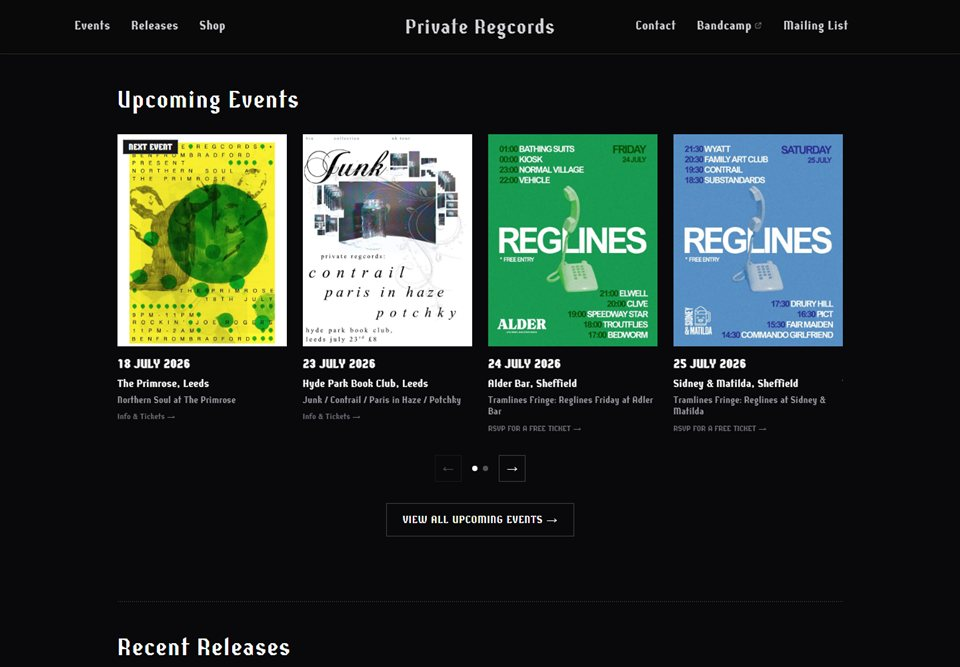
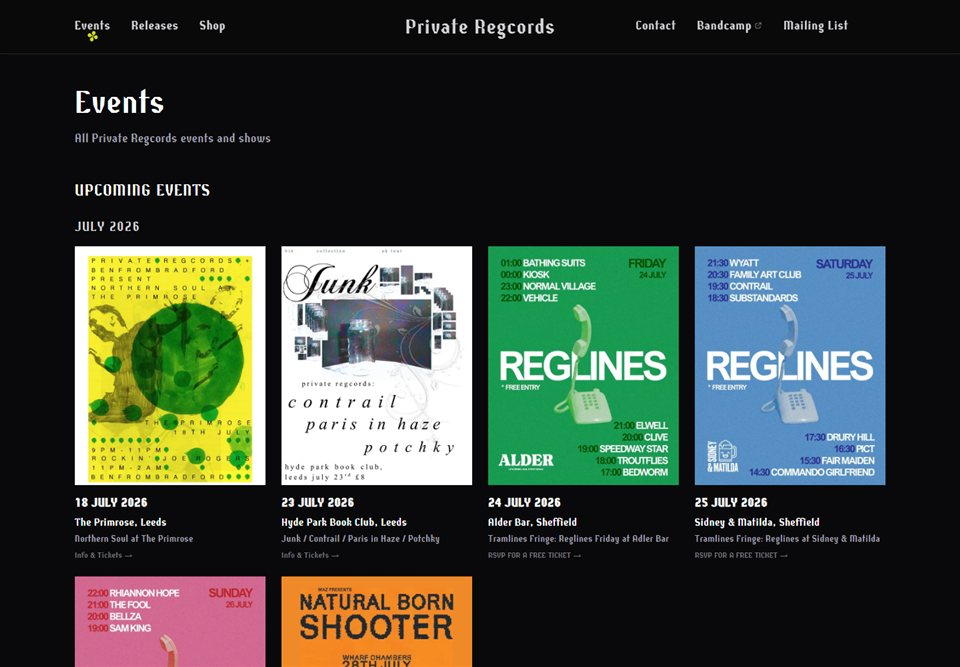
Remove unused assets and update site metadata

diff --git a/styles.css b/styles.css
@@ -1,7 +1,6 @@
 @font-face {
   font-family: "Abordage-Regular";
-  src: url("Abordage-Regular.woff2") format("woff2"),
-    url("Abordage-Regular.woff") format("woff");
+  src: url("Abordage-Regular.woff2") format("woff2");
   font-weight: normal;
   font-style: normal;
   font-display: swap;
@@ -134,7 +133,6 @@ img {
 .brand-mark {
   width: 36px;
   height: 36px;
-  image-rendering: pixelated;
 }
 
 .brand-name {
@@ -206,7 +204,6 @@ img {
   display: block;
   width: 96px;
   height: 96px;
-  image-rendering: pixelated;
 }
 
 .hero h1 {
@@ -362,60 +359,6 @@ h2 {
 
 .external-link {
   font-size: 0.95rem;
-}
-
-/* ---- Services & tools ---- */
-.services-list {
-  display: grid;
-  grid-template-columns: repeat(auto-fit, minmax(min(100%, 320px), 1fr));
-  gap: 1.5rem 2.5rem;
-  max-width: 52rem;
-}
-
-.service h3 {
-  font-size: 1.2rem;
-  margin-bottom: 0.25rem;
-}
-
-.service h3::before {
-  content: "";
-  display: inline-block;
-  width: 0.5em;
-  height: 0.5em;
-  margin-right: 0.45em;
-  background: var(--accent);
-}
-
-.service p {
-  margin: 0;
-  color: var(--muted);
-  font-size: 0.98rem;
-}
-
-.tech-caption {
-  margin: 2.25rem 0 0.75rem;
-  color: var(--muted);
-  font-style: italic;
-}
-
-.tech-strip {
-  display: flex;
-  flex-wrap: wrap;
-  align-items: center;
-  gap: 1.2rem;
-}
-
-.tech-strip img {
-  width: 32px;
-  height: 32px;
-  filter: grayscale(0.5);
-  opacity: 0.8;
-  transition: filter 0.2s ease, opacity 0.2s ease;
-}
-
-.tech-strip img:hover {
-  filter: none;
-  opacity: 1;
 }
 
 /* ---- About ---- */

diff --git a/index.html b/index.html
@@ -15,7 +15,7 @@
     />
     <meta
       property="og:image"
-      content="https://lamplightdigital.co.uk/web-app-manifest-512x512.png"
+      content="https://lamplightdigital.co.uk/og-image.png"
     />
 
     <!-- Set theme before first paint to avoid a flash -->
@@ -32,12 +32,9 @@
 
     <link rel="stylesheet" href="styles.css" />
 
-    <link rel="icon" type="image/png" href="/favicon-96x96.png" sizes="96x96" />
     <link rel="icon" type="image/svg+xml" href="/favicon.svg" />
     <link rel="shortcut icon" href="/favicon.ico" />
     <link rel="apple-touch-icon" sizes="180x180" href="/apple-touch-icon.png" />
-    <meta name="apple-mobile-web-app-title" content="Lamplight Digital" />
-    <link rel="manifest" href="/site.webmanifest" />
   </head>
   <body>
     <nav class="site-nav">
@@ -52,7 +49,6 @@
       </a>
       <div class="nav-links">
         <a href="#work">Work</a>
-        <a href="#services">What we do</a>
         <a href="#about">About</a>
         <a href="#contact">Contact</a>
         <button
@@ -145,9 +141,9 @@
               <h3>Private Regcords</h3>
               <p class="project-meta">Record label &middot; Online shop</p>
               <p>
-                Independent label from Leeds. We built them a shop for vinyl
-                and merch, a release catalogue, event listings and a mailing
-                list, and we host the lot.
+                Next.js storefront on Vercel. Stripe checkout for vinyl and
+                merch, plus a release catalogue, event listings and a mailing
+                list.
               </p>
               <a
                 class="external-link"
@@ -177,9 +173,8 @@
               <h3>The Hangover Sessions</h3>
               <p class="project-meta">Live sessions &middot; Video</p>
               <p>
-                Sunday-morning live sessions recorded at Hyde Park Book Club.
-                One full-screen video welcome, two buttons, nothing to get in
-                the way.
+                One static page, no framework. A full-screen video loop and
+                two links out, served through Cloudflare.
               </p>
               <a
                 class="external-link"
@@ -209,8 +204,8 @@
               <h3>Kiosk</h3>
               <p class="project-meta">Band site &middot; One page</p>
               <p>
-                A one-page site for the band Kiosk: latest release, streaming
-                links, upcoming shows and a mailing list. Loads in a blink.
+                Astro one-pager, static output. Bandcamp embed, streaming
+                links and a mailing list signup.
               </p>
               <a
                 class="external-link"
@@ -229,17 +224,14 @@
         <p>
           Lamplight Digital is <strong>James Vardy</strong>, web developer and
           IT specialist, and <strong>Vanns Tacey</strong>, UX designer. We
-          work with small businesses in Leeds and beyond, and we stick around
-          after launch. If something breaks at an awkward hour, you can email
-          a person, not a ticket queue.
+          work with small businesses in Leeds and beyond, and we can support after launch.
         </p>
       </section>
 
       <section id="contact" class="contact-section">
         <h2>Say hello</h2>
         <p>
-          Tell us what you're up to. No forms, no chatbots, just email. We
-          read everything and we'll reply properly.
+          Tell us what you're up to.
         </p>
         <a class="contact-email" href="mailto:[email redacted]"
           >[email redacted]</a
@@ -249,8 +241,7 @@
 
     <footer>
       <p>
-        &copy; <span id="year">2026</span> Lamplight Digital. Handmade in
-        Leeds.
+        &copy; <span id="year">2026</span> Lamplight Digital. Leeds.
       </p>
       <div class="social-icons">
         <a

diff --git a/README.md b/README.md
@@ -1,0 +1,28 @@
+# Lamplight Digital
+
+The website for [Lamplight Digital](https://lamplightdigital.co.uk), a small
+web studio in Leeds.
+
+One page of plain HTML, CSS and a little JavaScript.
+
+## What's here
+
+| File | What it is |
+| --- | --- |
+| `index.html` | The whole site |
+| `styles.css` | Styles, including the light and dark themes |
+| `scripts.js` | Theme toggle and the footer year |
+| `lamp-pixel-art.svg` | The lamp logo (navy, for light mode) |
+| `lamp-pixel-art-dark.svg` | The lamp logo (cream, for dark mode) |
+| `Abordage-Regular.woff2` | The heading font |
+| `previews/` | Screenshots of the sites in the portfolio |
+| `favicon.*`, `apple-touch-icon.png`, `og-image.png` | Icons and the link preview image |
+
+## Updating the portfolio
+
+Each project is an `<article class="project-card">` in `index.html`. Copy
+one, swap the screenshot in `previews/`, and change the text and links.
+
+## Deploying
+
+It's a static site. Put the files on any web server.